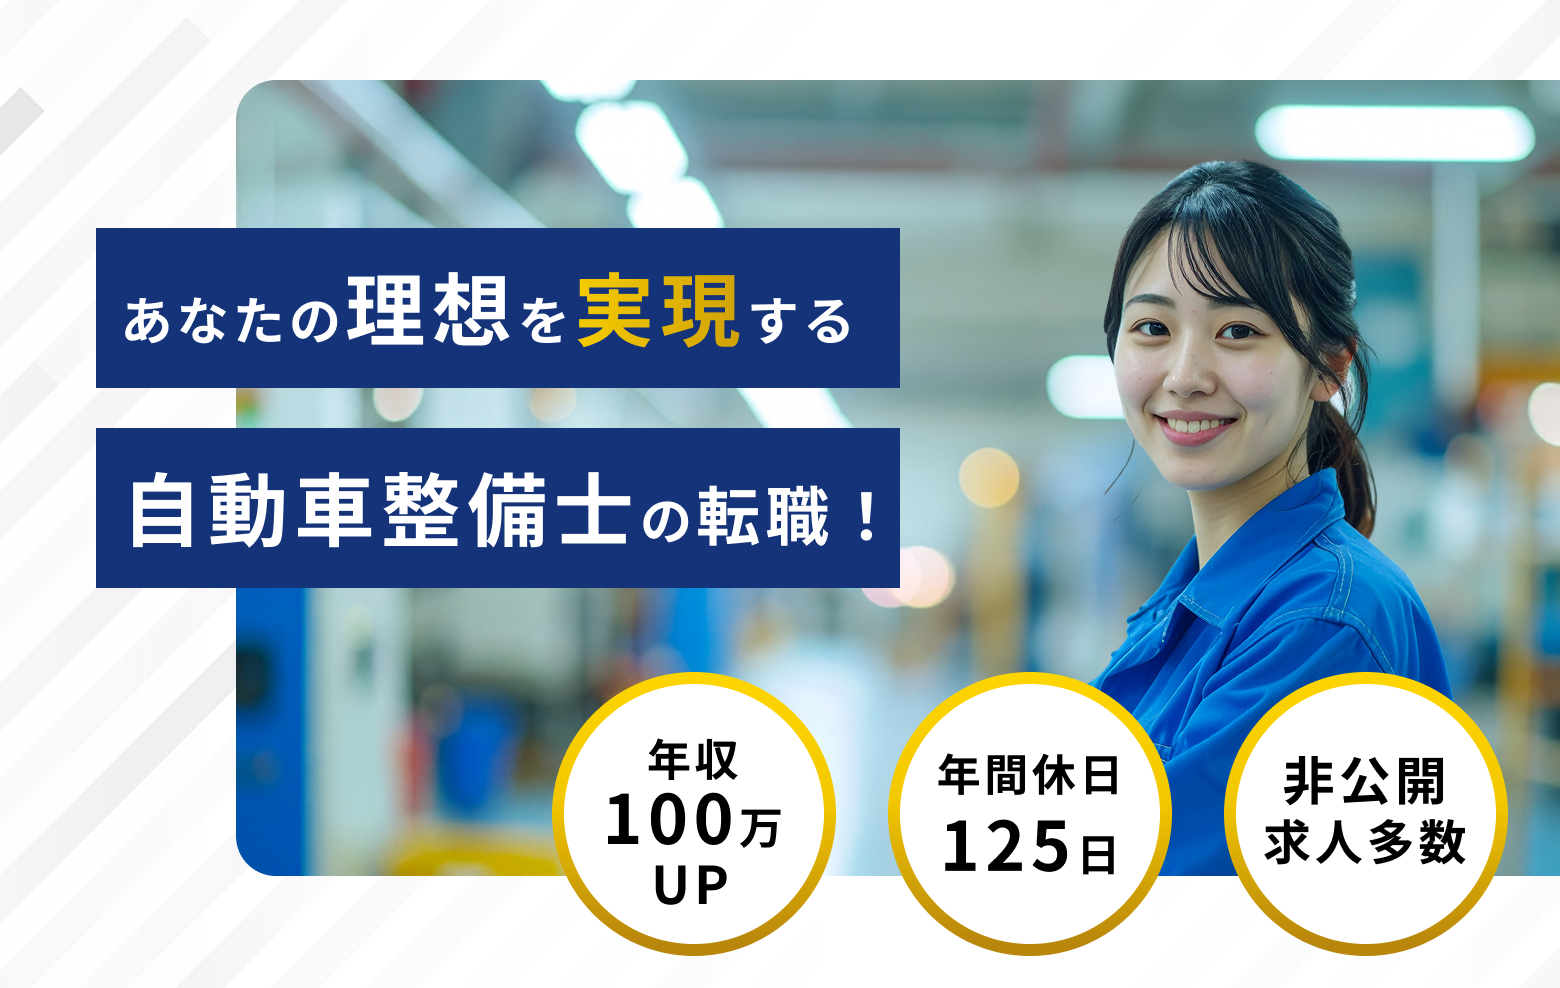
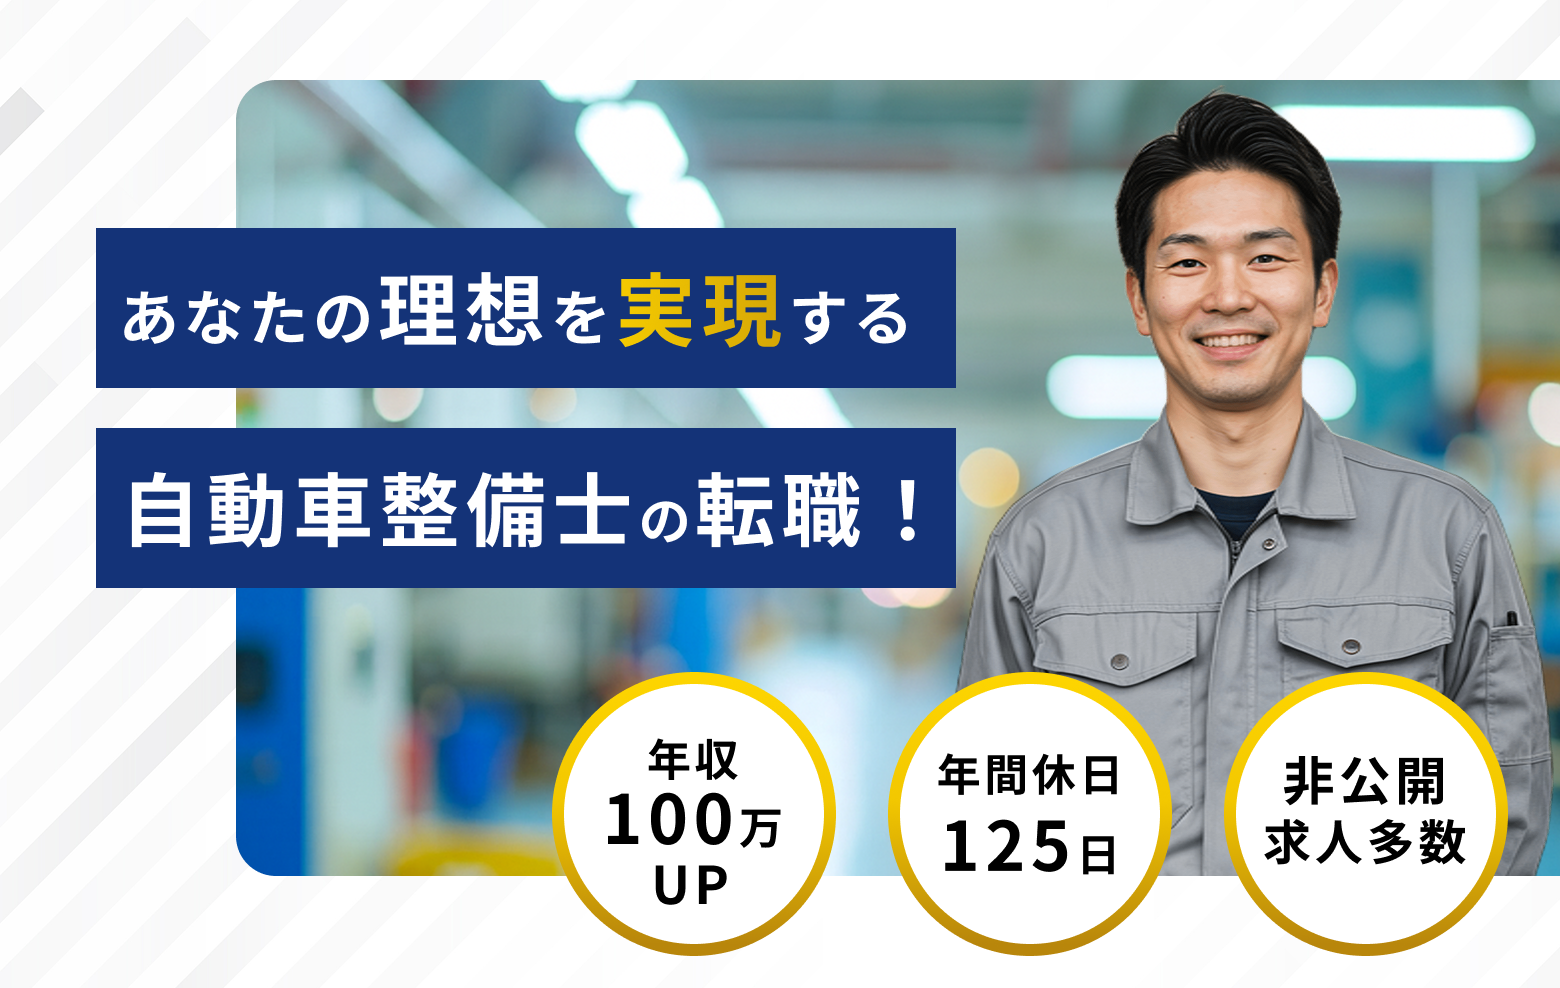
fv画像を女性から男性に変更

diff --git a/style.css b/style.css
@@ -233,7 +233,7 @@ FV（ボタン）
   padding: 16px 20px;
   font-size: 16px;
   font-weight: bold;
-  box-shadow: 0px 3px 0px rgba(199 86 4);
+  box-shadow: 2px 5px 0px rgba(199 86 4);
   transition: 0.25s ease;
   position: relative;
   overflow: hidden;
@@ -274,7 +274,7 @@ FV（ボタン）
   padding: 16px 20px;
   font-size: 16px;
   font-weight: normal;
-  box-shadow: 0px 3px 0px rgb(8 143 14);
+  box-shadow: 2px 5px 0px rgb(8 143 14);
   transition: 0.25s ease;
   position: relative;
   overflow: hidden;

diff --git a/index.html b/index.html
@@ -65,7 +65,7 @@
 		</header>
 
 		<div class="current-job-date__wrapper">
-			<div class="current-job-date"><span id="current-job-date"></span> 最終求人更新　非公開求人も多数あり！</div>
+			<div class="current-job-date"><span id="current-job-date"></span> 最終求人更新　※非公開求人も多数あり</div>
 		</div>
 		<div id="mechanic-first-view" class="mechanic-first-view">
 			<div class="mechanic-first-view__inner">
